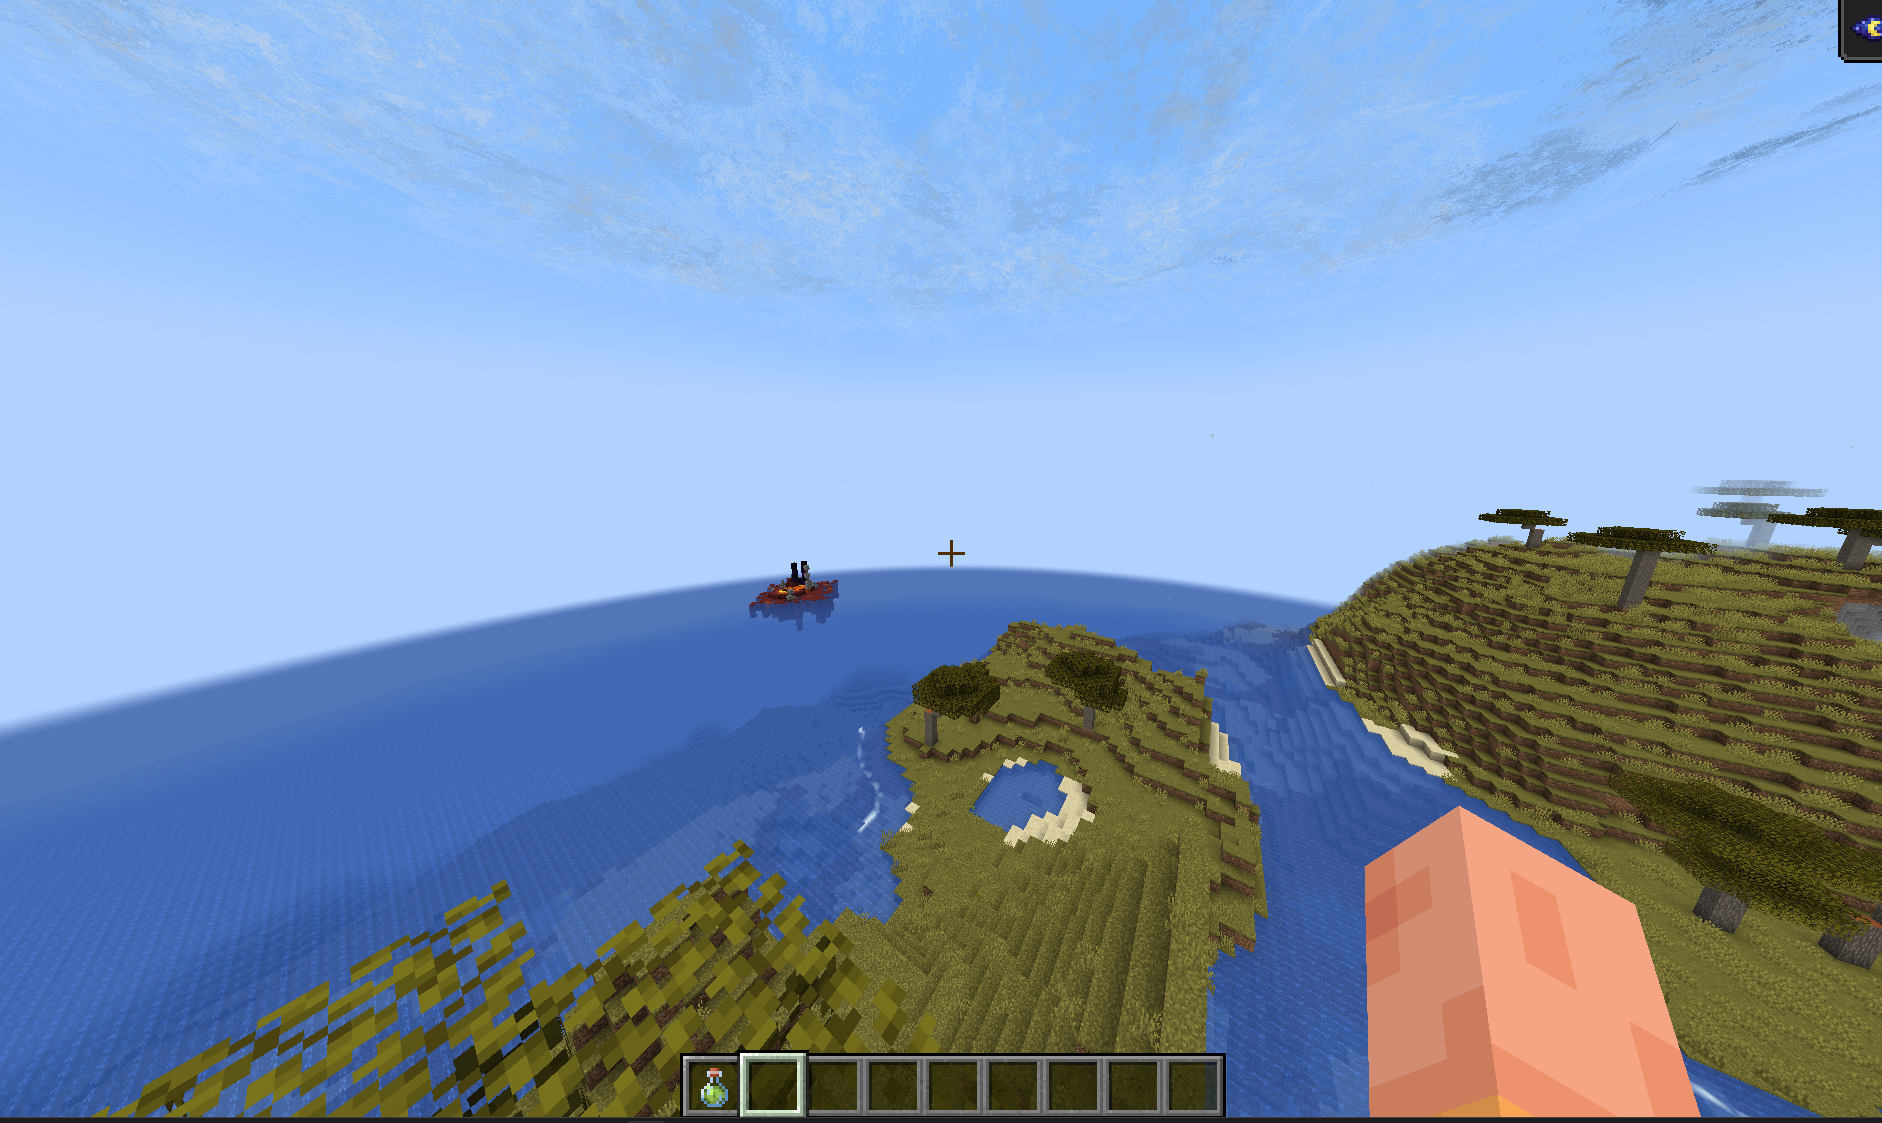
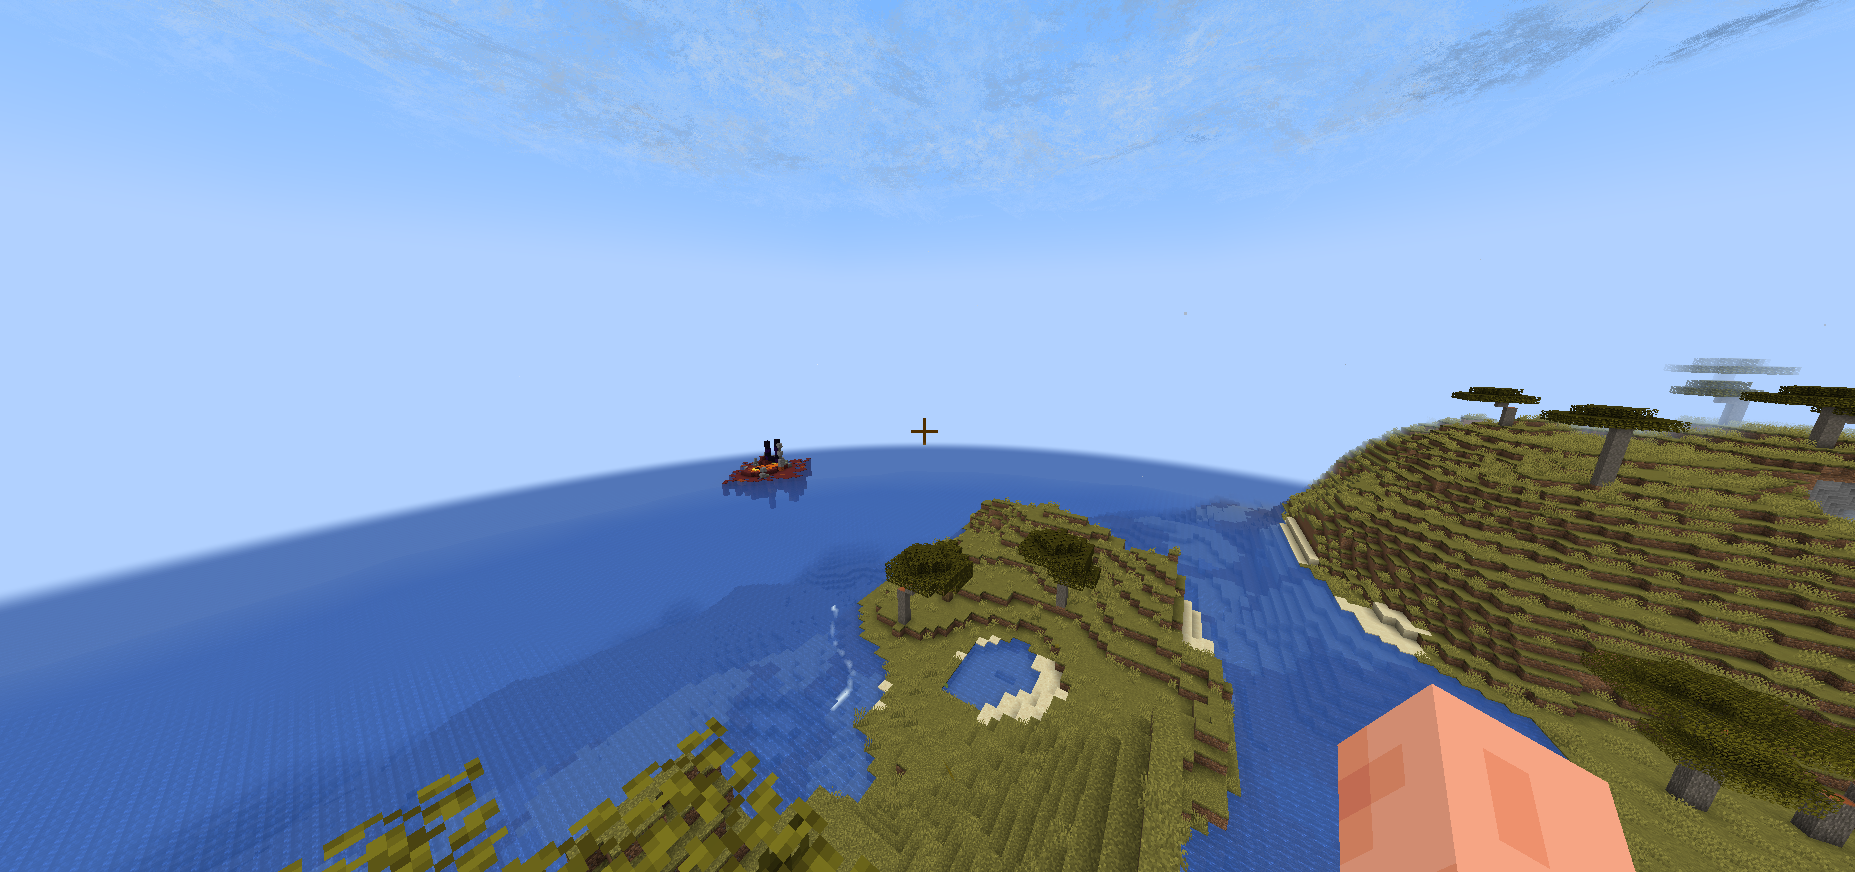
ocean spawn bugfux

diff --git a/src/main/java/com/sereneworldgen/handler/SpawnIslandHandler.java b/src/main/java/com/sereneworldgen/handler/SpawnIslandHandler.java
@@ -47,7 +47,7 @@ public class SpawnIslandHandler {
             LOGGER.info("[SereneOceanWorldgen] Evaluating world spawn for large island near (0, 0)...");
 
             BlockPos bestCandidate = null;
-            double bestLandRatio = -1.0;
+            double bestLandRatio = 0.0;
 
             int maxLayers = Math.min(MAX_SEARCH_RADIUS / SEARCH_STEP, 32);
             int iterations = 0;
@@ -65,7 +65,7 @@ public class SpawnIslandHandler {
                     if (result.isValidIsland()) {
                         setWorldSpawn(serverLevel, event, result.spawnPos(), result.landRatio());
                         return;
-                    } else if (result.landRatio() > bestLandRatio) {
+                    } else if (result.landRatio() > bestLandRatio && result.landRatio() > 0.0) {
                         bestLandRatio = result.landRatio();
                         bestCandidate = result.spawnPos();
                     }
@@ -83,7 +83,7 @@ public class SpawnIslandHandler {
                         if (result.isValidIsland()) {
                             setWorldSpawn(serverLevel, event, result.spawnPos(), result.landRatio());
                             return;
-                        } else if (result.landRatio() > bestLandRatio) {
+                        } else if (result.landRatio() > bestLandRatio && result.landRatio() > 0.0) {
                             bestLandRatio = result.landRatio();
                             bestCandidate = result.spawnPos();
                         }
@@ -101,7 +101,7 @@ public class SpawnIslandHandler {
                         if (result.isValidIsland()) {
                             setWorldSpawn(serverLevel, event, result.spawnPos(), result.landRatio());
                             return;
-                        } else if (result.landRatio() > bestLandRatio) {
+                        } else if (result.landRatio() > bestLandRatio && result.landRatio() > 0.0) {
                             bestLandRatio = result.landRatio();
                             bestCandidate = result.spawnPos();
                         }
@@ -110,9 +110,9 @@ public class SpawnIslandHandler {
             }
 
             // Fallback if no candidate strictly reached 65% land ratio
-            if (bestCandidate != null) {
-                LOGGER.warn("[SereneOceanWorldgen] No candidate reached {:.0f}% land ratio; using best island candidate at {} ({:.1f}%)",
-                        REQUIRED_LAND_RATIO * 100, bestCandidate, bestLandRatio * 100);
+            if (bestCandidate != null && bestLandRatio > 0.0) {
+                LOGGER.warn("[SereneOceanWorldgen] No candidate reached {}% land ratio; using best island candidate at {} ({}%)",
+                        Math.round(REQUIRED_LAND_RATIO * 100), bestCandidate, Math.round(bestLandRatio * 100));
                 setWorldSpawn(serverLevel, event, bestCandidate, bestLandRatio);
             } else {
                 LOGGER.warn("[SereneOceanWorldgen] Unable to find suitable island; allowing default spawn.");
@@ -133,7 +133,7 @@ public class SpawnIslandHandler {
             if (centerChunk != null) {
                 surfaceY = centerChunk.getHeight(Heightmap.Types.MOTION_BLOCKING_NO_LEAVES, candX & 15, candZ & 15) - 1;
             } else {
-                surfaceY = generator.getBaseHeight(candX, candZ, Heightmap.Types.WORLD_SURFACE_WG, level, randomState) - 1;
+                surfaceY = generator.getBaseHeight(candX, candZ, Heightmap.Types.OCEAN_FLOOR_WG, level, randomState) - 1;
             }
 
             // Candidate center must be at or above sea level (Y >= 63)
@@ -142,11 +142,15 @@ public class SpawnIslandHandler {
             }
 
             BlockPos centerSurfacePos = new BlockPos(candX, surfaceY, candZ);
+            BlockState centerState;
             if (centerChunk != null) {
-                BlockState centerState = centerChunk.getBlockState(new BlockPos(candX & 15, surfaceY, candZ & 15));
-                if (!centerState.getFluidState().isEmpty() || centerState.isAir()) {
-                    return new EvaluationResult(centerSurfacePos.above(), 0.0, false);
-                }
+                centerState = centerChunk.getBlockState(new BlockPos(candX & 15, surfaceY, candZ & 15));
+            } else {
+                centerState = generator.getBaseColumn(candX, candZ, level, randomState).getBlock(surfaceY);
+            }
+
+            if (!centerState.getFluidState().isEmpty() || centerState.isAir()) {
+                return new EvaluationResult(centerSurfacePos.above(), 0.0, false);
             }
 
             int totalColumns = 0;
@@ -179,10 +183,17 @@ public class SpawnIslandHandler {
                             }
                         }
                     } else {
-                        colY = generator.getBaseHeight(sampleX, sampleZ, Heightmap.Types.WORLD_SURFACE_WG, level, randomState) - 1;
+                        colY = generator.getBaseHeight(sampleX, sampleZ, Heightmap.Types.OCEAN_FLOOR_WG, level, randomState) - 1;
                         if (colY >= 63) {
-                            solidDryColumns++;
-                            hasVegetation = true;
+                            BlockState state = generator.getBaseColumn(sampleX, sampleZ, level, randomState).getBlock(colY);
+                            if (state.getFluidState().isEmpty() && !state.isAir()) {
+                                solidDryColumns++;
+                                if (state.is(Blocks.GRASS_BLOCK) || state.is(BlockTags.LEAVES) || state.is(BlockTags.LOGS) || state.is(Blocks.SHORT_GRASS)) {
+                                    hasVegetation = true;
+                                } else {
+                                    hasVegetation = true;
+                                }
+                            }
                         }
                     }
                 }
@@ -205,10 +216,13 @@ public class SpawnIslandHandler {
             if (serverLevel.getLevelData() instanceof ServerLevelData serverLevelData) {
                 serverLevelData.setSpawn(spawnPos, 0.0f);
             }
+            if (event.getSettings() != null) {
+                event.getSettings().setSpawn(spawnPos, 0.0f);
+            }
             event.setCanceled(true);
 
-            LOGGER.info("[SereneOceanWorldgen] Successfully established safe World Spawn at {} on island (dry land: {:.1f}%)",
-                    spawnPos, landRatio * 100);
+            LOGGER.info("[SereneOceanWorldgen] Successfully established safe World Spawn at {} on island (dry land: {}%)",
+                    spawnPos, Math.round(landRatio * 100));
 
             // Defer starter sheep flock spawning until world and spawn chunks are loaded
             if (serverLevel.getServer() != null) {

diff --git a/src/test/java/com/sereneworldgen/WorldgenLoadTest.java b/src/test/java/com/sereneworldgen/WorldgenLoadTest.java
@@ -59,6 +59,30 @@ public class WorldgenLoadTest {
     }
 
     @Test
+    @DisplayName("Verify SpawnIslandBias elevates depth density at spawn (0, 0) and decays to 0 outside radius")
+    void testSpawnIslandBiasElevatesDepth() {
+        SpawnIslandBias bias = new SpawnIslandBias(1400.0, 0.90);
+
+        // Simulated depth calculation at Y=64
+        // gradient at Y=64: 0.5
+        // ocean offset: -0.44 (deep ocean depression)
+        // baseline ocean depth without bias: 0.5 - 0.44 = 0.06
+        double oceanOffset = -0.44;
+        double baseGradientAtSeaLevel = 0.5;
+
+        double spawnBiasVal = bias.compute(new DummyContext(0, 64, 0));
+        double spawnDepth = baseGradientAtSeaLevel + oceanOffset + spawnBiasVal;
+
+        double outsideBiasVal = bias.compute(new DummyContext(1500, 64, 1500));
+        double outsideDepth = baseGradientAtSeaLevel + oceanOffset + outsideBiasVal;
+
+        assertTrue(spawnBiasVal >= 1.35, "Spawn island bias at center should provide strong positive boost");
+        assertTrue(spawnDepth > 1.0, "Spawn depth at (0, 0) should be strongly positive to form high dry land");
+        assertEquals(0.0, outsideBiasVal, 1e-6, "Outside radius bias should be 0");
+        assertTrue(outsideDepth < spawnDepth, "Ocean outside spawn radius should have significantly lower depth density");
+    }
+
+    @Test
     @DisplayName("Verify SpawnIslandBias robustness against extreme / NaN / infinite parameters")
     void testSpawnIslandBiasEdgeCases() {
         // Degenerate radius and boosts
